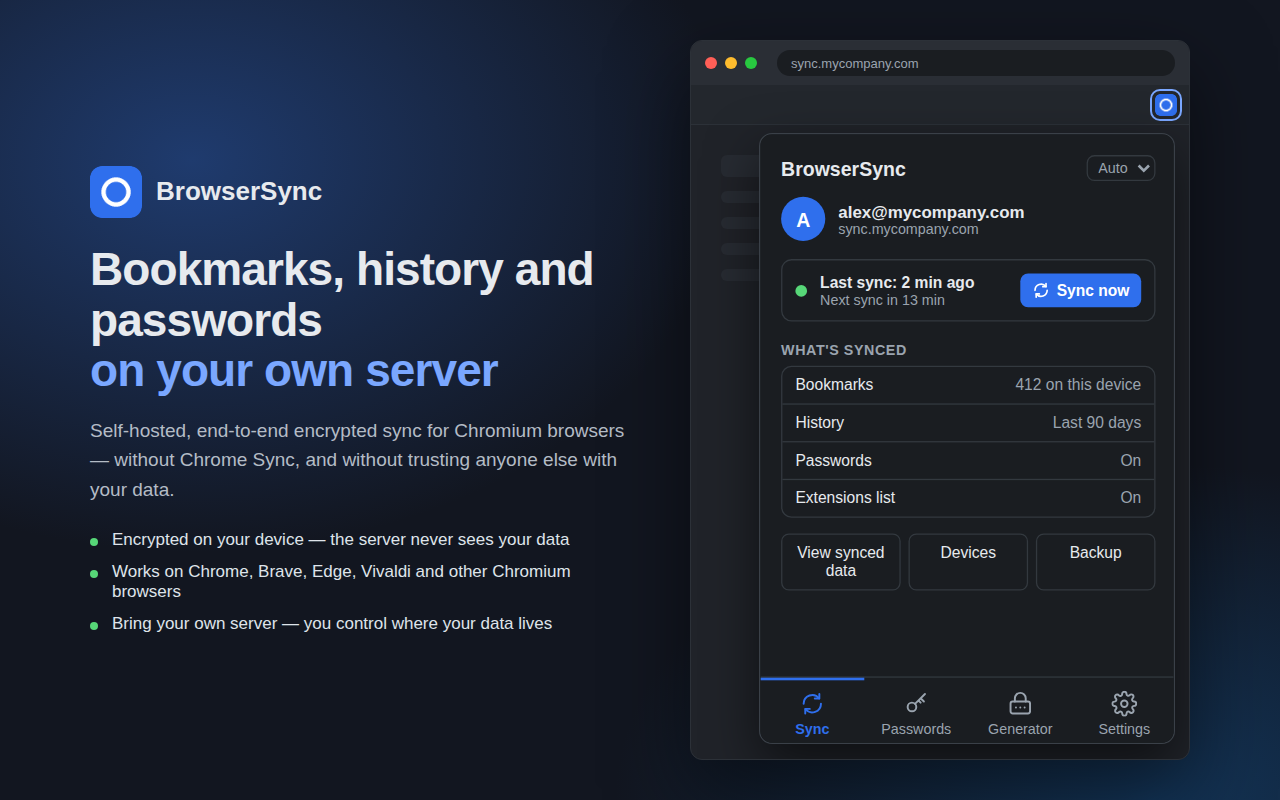
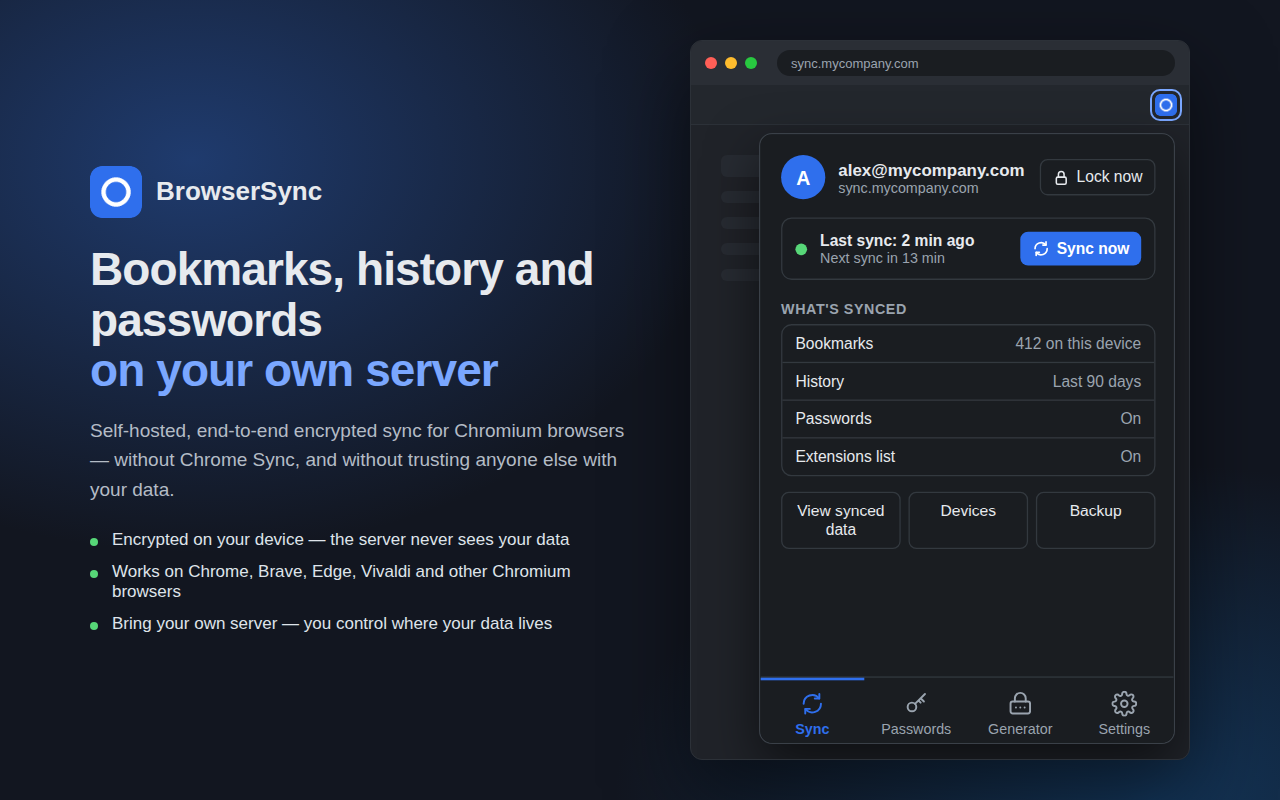
docs: store descriptions and screenshots for 2.4.0
- Descriptions (en/es): What's new since 2.2.0 (the last version on the store), new features and the server requirement for changing the password.
- Screenshots match the current popup: no header, Lock now on the Sync tab, a title on the Passwords tab, no Account section in Settings.

diff --git a/store/screenshots/build.py b/store/screenshots/build.py
@@ -56,8 +56,6 @@ def popup_page(active, body):
 <link rel="stylesheet" href="{EXT.as_uri()}/lib/generatorPanel.css">
 <style>{DARK}</style></head>
 <body class="with-tabs"><main class="popup">
-<header><span class="brand">BrowserSync</span><div class="header-actions">
-<select class="language-select"><option>Auto</option></select></div></header>
 {body}
 </main><nav class="tab-bar">{tabs}</nav></body></html>"""
 
@@ -79,7 +77,8 @@ def pw_row(site, user, letter, color, totp=False):
 SYNC_TAB = """
 <section>
   <div class="account-card"><span class="account-avatar">A</span>
-    <div class="account-text"><strong>alex@mycompany.com</strong><span class="muted">sync.mycompany.com</span></div></div>
+    <div class="account-text"><strong>alex@mycompany.com</strong><span class="muted">sync.mycompany.com</span></div>
+    <button class="secondary-button lock-button"><svg viewBox="0 0 24 24"><rect x="5" y="11" width="14" height="10" rx="2"/><path d="M8 11V7a4 4 0 0 1 8 0v4"/></svg><span>Lock now</span></button></div>
   <div class="sync-card"><span class="dot dot-ok"></span>
     <div class="sync-card-text"><strong>Last sync: 2 min ago</strong><span class="muted">Next sync in 13 min</span></div>
     <button class="sync-now-button"><svg viewBox="0 0 24 24"><path d="M20 12a8 8 0 0 1-14.3 4.9M4 12a8 8 0 0 1 14.3-4.9"/><path d="M18.5 3v4.2h-4.2M5.5 21v-4.2h4.2"/></svg><span>Sync now</span></button></div>
@@ -95,6 +94,7 @@ SYNC_TAB = """
 
 PASSWORDS_TAB = f"""
 <section>
+  <h2 class="tab-title">Passwords</h2>
   <div class="pw-toolbar"><input type="search" class="pw-search" placeholder="Search by site or username"><button class="pw-add-button">+</button></div>
   <h3 class="section-title" style="margin-top:12px">For github.com</h3>
   <div class="pw-list">{pw_row("github.com", "alex@mycompany.com", "G", "#24292f", totp=True)}{pw_row("github.com", "alex-work", "G", "#24292f", totp=True)}</div>
@@ -158,11 +158,9 @@ SETTINGS_TAB = """
   <h3 class="section-title">Passwords</h3>
   <div class="settings-group">
     <label class="switch-row"><span>Suggest and save passwords on websites</span><input type="checkbox" class="switch" checked></label>
-    <label class="field-row"><span>Autofill</span><select><option>When I click the key icon</option></select></label>
+    <label class="field-row"><span>Autofill</span><select><option>When I focus a login field</option></select></label>
   </div>
-  <h3 class="section-title">Account</h3>
-  <div class="settings-actions"><button class="secondary-button">Lock now</button><button class="secondary-button logout-button">Log out</button></div>
-  <a class="more-settings"><span><strong>More settings</strong><span class="hint block">Devices, backup, restore bookmarks, delete account</span></span><span>›</span></a>
+  <a class="more-settings"><span><strong>More settings</strong><span class="hint block">Devices, backup, log out, delete account</span></span><span>›</span></a>
 </section>"""
 
 # (file, active tab, popup body, url in the fake address bar, popup side, kicker, headline, accent, text, bullets)
@@ -175,8 +173,8 @@ SHOTS = [
       "Bring your own server — you control where your data lives"]),
     ("2-passwords", "passwords", PASSWORDS_TAB, "github.com/login", "left", "Password manager",
      "Your passwords,", "one click away",
-     "The logins for the site you're on come first. Copy a username, password or two-step code in one click, or autofill it right on the page.",
-     ["Search, add and edit without leaving the popup",
+     "The logins for the site you're on come first. Copy a username, password or two-step code in one click, or pick one right on the page.",
+     ["Suggestions as wide as the field, with \"Add account\" on new sites",
       "Built-in two-step verification codes (TOTP)",
       "Import from Chrome, Firefox or Bitwarden"]),
     ("3-generator", "generator", GENERATOR_TAB, "signup.example.com", "right", "Password generator",
@@ -188,8 +186,8 @@ SHOTS = [
     ("4-settings", "settings", SETTINGS_TAB, "sync.mycompany.com", "left", "Settings",
      "You decide", "what syncs",
      "Turn history on or off, set how often to sync, and choose how passwords are suggested on websites — all from the popup.",
-     ["Lock with one click; your password unlocks it again",
-      "Linked devices, encrypted backups and account deletion",
+     ["Suggestions on click, on focus or on page load",
+      "Linked devices, encrypted backups and password changes",
       "No ads, no tracking, open source"]),
 ]
 
